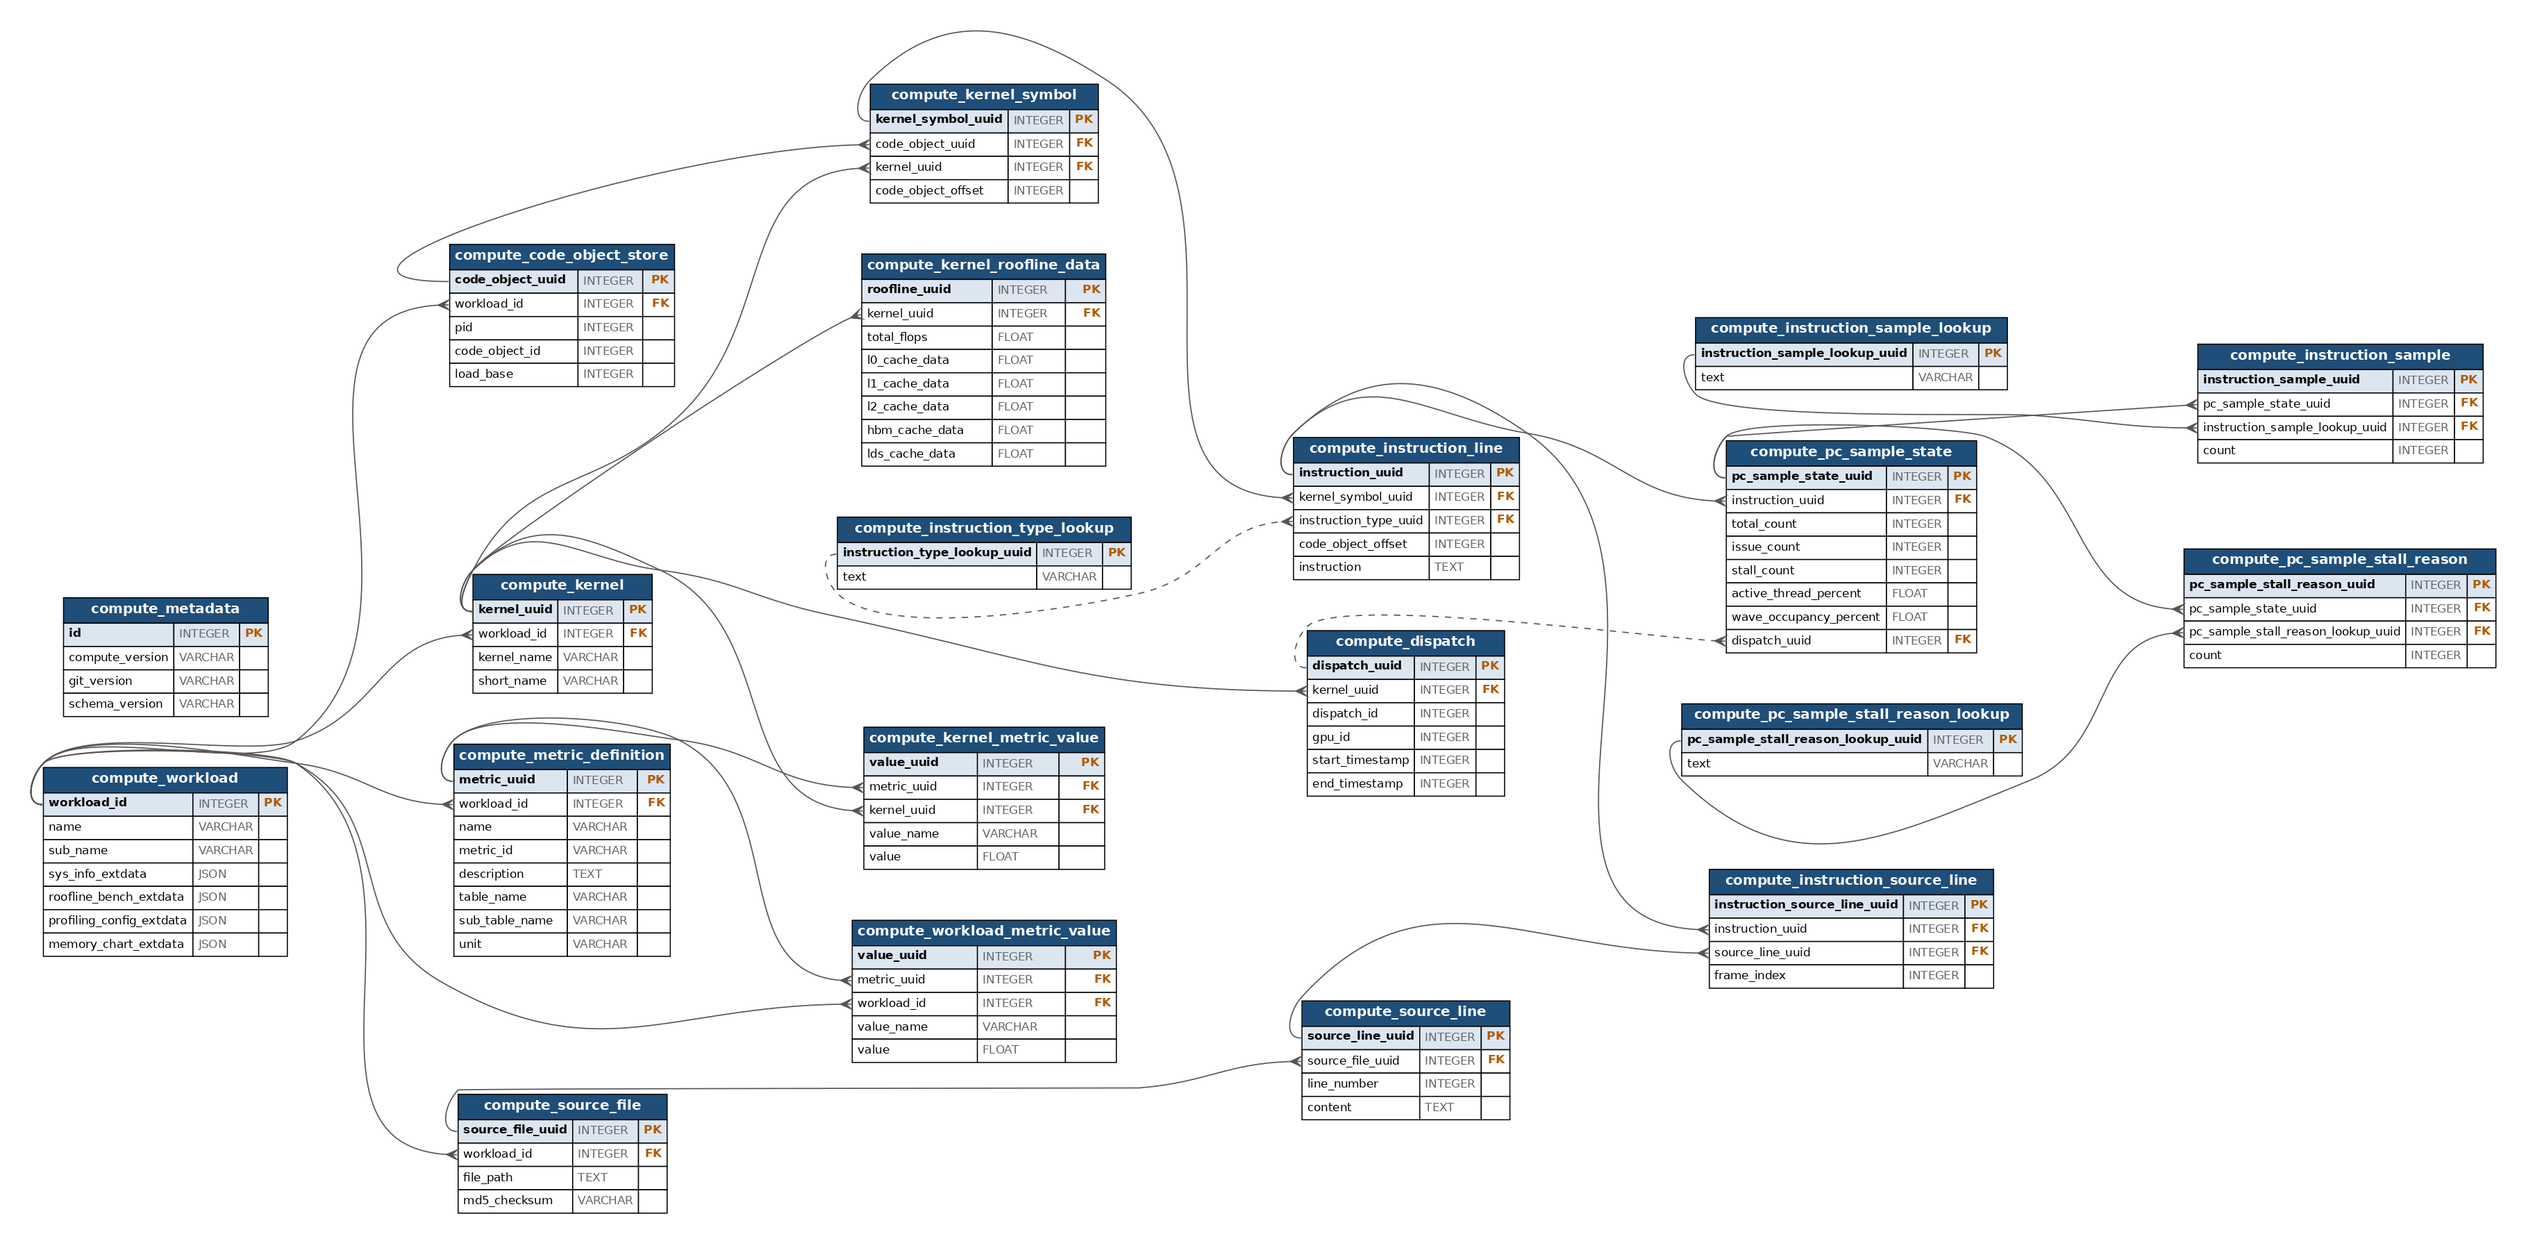
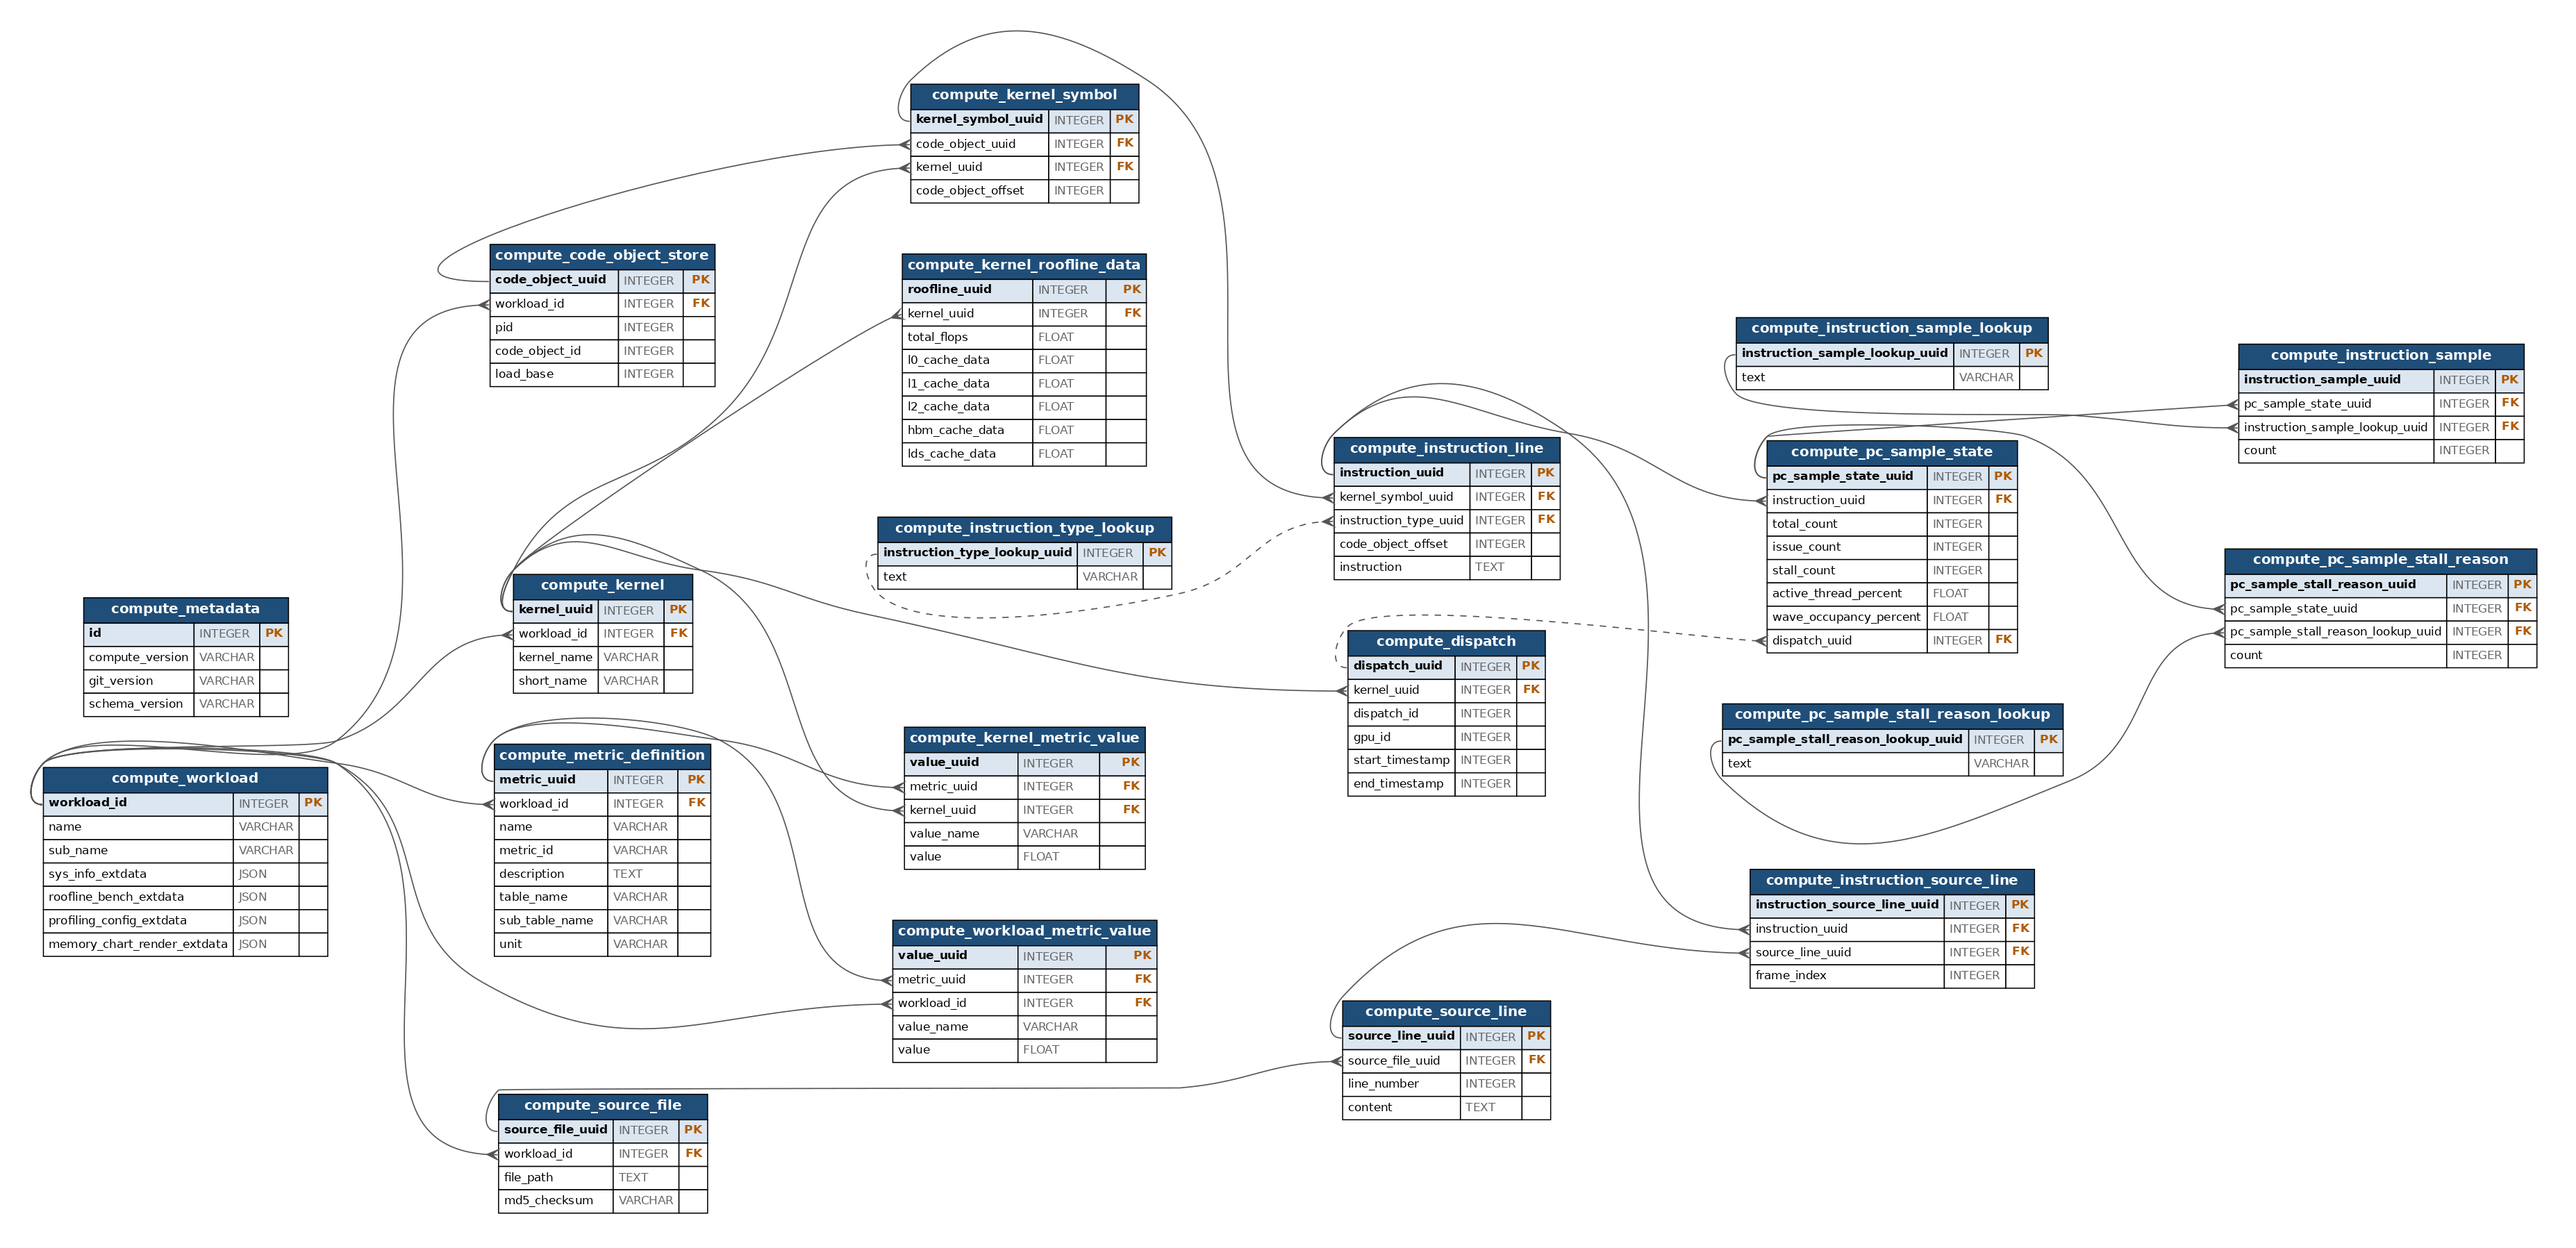
feat(rocprofiler-compute): always store the memory chart rendering spec
- compute_workload.memory_chart_extdata becomes memory_chart_render_extdata:
  it is the chart's rendering specification, separate from metric data.
- Every workload stores it; metrics the panel config can't resolve (for
  example from --config-dir) are referenced as null instead of leaving
  the column NULL.

diff --git a/projects/rocprofiler-compute/tests/unit/rocprof_compute_analyze/test_analysis_db.py b/projects/rocprofiler-compute/tests/unit/rocprof_compute_analyze/test_analysis_db.py
@@ -37,7 +37,7 @@ from utils.metrics.noise_clamper import (
     clear_noise_clamp_warnings,
     get_noise_clamp_warnings,
 )
-from utils.utils_common import panel_metric_ids
+from utils.utils_common import panel_metric_ids, panel_tables
 
 ISA_WORKLOAD_NAME = "vector_copy"
 ISA_WORKLOAD_SUB_NAME = "run"
@@ -235,11 +235,11 @@ def memory_chart_arch_config(panel):
     return schema.ArchConfig(panel_configs={panel["id"]: panel})
 
 
-def without_a_layout_metric(panel):
-    """A copy of a panel 300 config missing the first metric of its first table."""
+def without_metric(panel, name):
+    """A copy of a panel 300 config without the metric *name*."""
     panel = copy.deepcopy(panel)
-    table = next(iter(panel["data source"][0].values()))
-    table["metric"].pop(next(iter(table["metric"])))
+    for _, table in panel_tables(panel):
+        table["metric"].pop(name, None)
     return panel
 
 
@@ -3600,12 +3600,12 @@ def test_calc_roofline_data_includes_all_kernels(monkeypatch):
 
 
 # =============================================================================
-# Memory chart layout (Workload.memory_chart_extdata)
+# Memory chart rendering specification (Workload.memory_chart_render_extdata)
 # =============================================================================
 
 
 @pytest.mark.parametrize("gpu_arch", ["gfx942", "gfx1151"])
-def test_run_analysis_stores_the_workloads_memory_chart_layout(
+def test_run_analysis_stores_the_workloads_memory_chart_render_spec(
     db_session, tmp_path, gpu_arch
 ):
     panel = PanelConfigs.for_arch(Layouts.for_arch(gpu_arch).archs[0])
@@ -3615,38 +3615,33 @@ def test_run_analysis_stores_the_workloads_memory_chart_layout(
     # Ids come from the panel config, not from metric definitions, so chart
     # metrics without values (left out by --block) are still referenced
     assert db_session.query(orm.MetricDefinition).count() == 0
-    assert workload.memory_chart_extdata == layout_extdata(
+    assert workload.memory_chart_render_extdata == layout_extdata(
         Layouts.for_arch(gpu_arch), panel_metric_ids(panel)
     )
 
 
 @pytest.mark.parametrize(
-    ("gpu_arch", "arch_config"),
+    ("arch_config", "unresolved"),
     [
-        ("gfx1030", memory_chart_arch_config(PanelConfigs.for_arch("gfx942"))),
-        ("gfx942", schema.ArchConfig()),
+        (schema.ArchConfig(), Layouts.for_arch("gfx942").metrics()),
         (
-            "gfx942",
             memory_chart_arch_config(
-                without_a_layout_metric(PanelConfigs.for_arch("gfx942"))
+                without_metric(PanelConfigs.for_arch("gfx942"), "Flat Read")
             ),
+            {"Flat Read"},
         ),
         (
-            "gfx942",
             memory_chart_arch_config(
                 with_a_repeated_layout_metric(PanelConfigs.for_arch("gfx942"))
             ),
+            {"Flat Read"},
         ),
     ],
-    ids=[
-        "arch-without-layout",
-        "no-chart-panel",
-        "custom-chart-panel",
-        "repeated-name",
-    ],
+    ids=["no-chart-panel", "custom-chart-panel", "repeated-name"],
 )
-def test_run_analysis_stores_no_layout_it_cannot_resolve(
-    db_session, tmp_path, gpu_arch, arch_config
+def test_run_analysis_stores_null_for_metrics_it_cannot_resolve(
+    db_session, tmp_path, arch_config, unresolved
 ):
-    workload = run_memory_chart_workload(tmp_path, gpu_arch, arch_config)
-    assert workload.memory_chart_extdata is None
+    workload = run_memory_chart_workload(tmp_path, "gfx942", arch_config)
+    stored = workload.memory_chart_render_extdata
+    assert common.unresolved_metrics(Layouts.for_arch("gfx942"), stored) == unresolved

diff --git a/projects/rocprofiler-compute/src/rocprof_compute_analyze/analysis_db.py b/projects/rocprofiler-compute/src/rocprof_compute_analyze/analysis_db.py
@@ -364,7 +364,9 @@ class db_analysis(OmniAnalyze_Base):
                     workload_path
                 ),
                 profiling_config_extdata=self._profiling_config,
-                memory_chart_extdata=self._memory_chart_extdata(sys_info["gpu_arch"]),
+                memory_chart_render_extdata=self._memory_chart_render_extdata(
+                    sys_info["gpu_arch"]
+                ),
             )
             Database.get_session().add(workload_obj)
             workload_objs.append(workload_obj)
@@ -503,27 +505,17 @@ class db_analysis(OmniAnalyze_Base):
             )
         return workload_isa_exports
 
-    def _memory_chart_extdata(self, gpu_arch: str) -> Optional[dict[str, Any]]:
-        """The memory chart layout stored for a workload, or None without one.
+    def _memory_chart_render_extdata(self, gpu_arch: str) -> dict[str, Any]:
+        """The memory chart rendering specification stored for a workload.
 
-        Ids come from the unfiltered panel config, so metrics left out by
-        --block are still referenced, without values.
+        Metric ids come from the full panel config, so metrics left out by
+        --block keep their ids.
         """
-        layout = Layouts.for_arch(gpu_arch)
         panels = self._arch_configs[gpu_arch].panel_configs.values()
         panel = next((p for p in panels if is_memory_chart_panel(p)), None)
-        if layout is None or panel is None:
-            return None
-        metric_ids = panel_metric_ids(panel)
-        # A custom --config-dir memory chart panel may not match the layout
-        missing = layout.metrics() - metric_ids.keys()
-        if missing:
-            console_debug(
-                "No memory chart layout stored; the memory chart panel has no "
-                f"unique metric named {sorted(missing)}"
-            )
-            return None
-        return layout_extdata(layout, metric_ids)
+        metric_ids = panel_metric_ids(panel) if panel else {}
+        # Every GPU family that rocprof-compute supports ships a memory chart layout
+        return layout_extdata(Layouts.for_arch(gpu_arch), metric_ids)
 
     def run_analysis_metrics(
         self,

diff --git a/projects/rocprofiler-compute/src/utils/analysis_orm.py b/projects/rocprofiler-compute/src/utils/analysis_orm.py
@@ -63,10 +63,8 @@ class Workload(Base):
     sys_info_extdata = Column(JSON)
     roofline_bench_extdata = Column(JSON)
     profiling_config_extdata = Column(JSON)
-    # Memory chart layout for ROCm Optiq (see memory_chart.extdata); NULL when
-    # the workload's architecture has no layout, or its panel 300 config (for
-    # example from --config-dir) lacks a metric the layout shows
-    memory_chart_extdata = Column(JSON, nullable=True)
+    # Memory chart rendering specification for ROCm Optiq (see memory_chart.extdata)
+    memory_chart_render_extdata = Column(JSON)
 
     # Workload can have multiple kernels
     kernels = relationship("Kernel", back_populates="workload")

diff --git a/projects/rocprofiler-compute/src/memory_chart/extdata.py b/projects/rocprofiler-compute/src/memory_chart/extdata.py
@@ -1,7 +1,7 @@
 # Copyright (c) Advanced Micro Devices, Inc.
 # SPDX-License-Identifier:  MIT
 
-"""The memory chart layout as stored in the analysis database for ROCm Optiq.
+"""The memory chart rendering specification stored in the analysis database.
 
 The format is a superset of Optiq's memory chart layout: metrics are referenced
 by metric_id, and description, scope, note, host, and group are extra keys.
